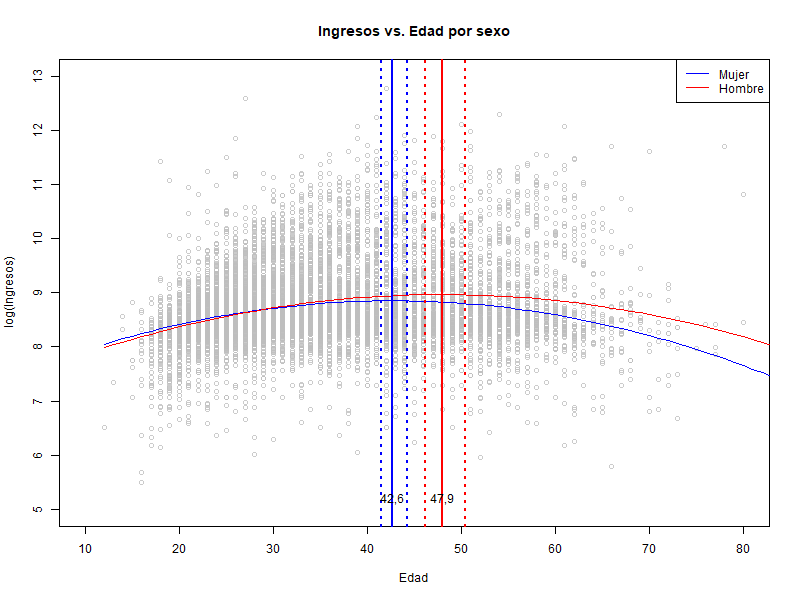
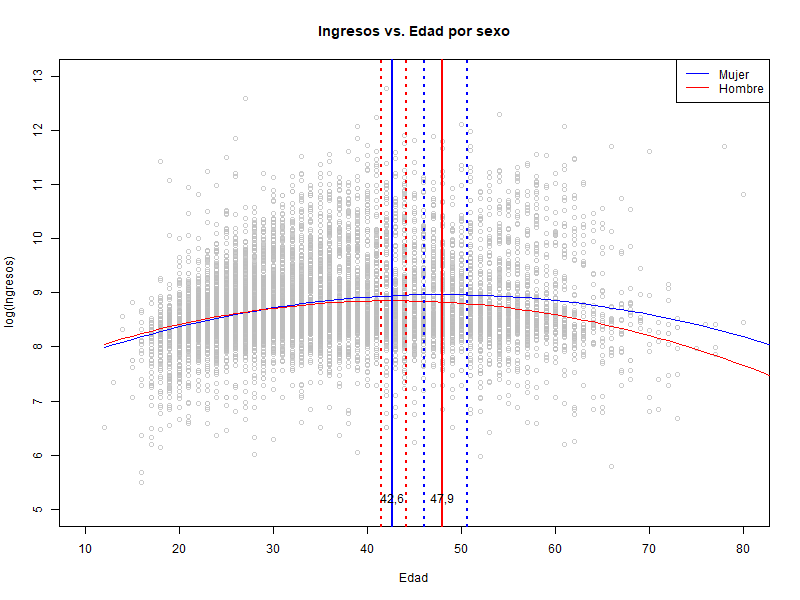
Actualización - Código brecha género

diff --git a/views/4reg3.tex b/views/4reg3.tex
@@ -1,6 +1,6 @@
 
 % Table created by stargazer v.5.2.3 by Marek Hlavac, Social Policy Institute. E-mail: marek.hlavac at gmail.com
-% Date and time: dom., mar. 03, 2024 - 11:00:58 a. m.
+% Date and time: dom., mar. 03, 2024 - 1:38:15 p. m.
 % Requires LaTeX packages: dcolumn 
 \begin{table}[!htbp] \centering 
   \caption{} 
@@ -13,13 +13,13 @@
 \\[-1.8ex] & \multicolumn{1}{c}{log\_wage\_res} & \multicolumn{1}{c}{ln\_wage} \\ 
 \\[-1.8ex] & \multicolumn{1}{c}{(1)} & \multicolumn{1}{c}{(2)}\\ 
 \hline \\[-1.8ex] 
- woman\_res & -0.165^{***} &  \\ 
+ woman\_res & 0.165^{***} &  \\ 
   & (0.012) &  \\ 
   & & \\ 
- sex &  & -0.044^{***} \\ 
+ sex &  & 0.044^{***} \\ 
   &  & (0.015) \\ 
   & & \\ 
- Constant & -0.000 & 8.739^{***} \\ 
+ Constant & 0.000 & 8.696^{***} \\ 
   & (0.006) & (0.010) \\ 
   & & \\ 
 \hline \\[-1.8ex] 

diff --git a/views/4reg1.tex b/views/4reg1.tex
@@ -1,6 +1,6 @@
 
 % Table created by stargazer v.5.2.3 by Marek Hlavac, Social Policy Institute. E-mail: marek.hlavac at gmail.com
-% Date and time: dom., mar. 03, 2024 - 10:56:51 a. m.
+% Date and time: dom., mar. 03, 2024 - 1:29:42 p. m.
 % Requires LaTeX packages: dcolumn 
 \begin{table}[!htbp] \centering 
   \caption{} 
@@ -12,10 +12,10 @@
 \cline{2-2} 
 \\[-1.8ex] & \multicolumn{1}{c}{ln\_wage} \\ 
 \hline \\[-1.8ex] 
- sex & -0.044^{***} \\ 
+ sex & 0.044^{***} \\ 
   & (0.015) \\ 
   & \\ 
- Constant & 8.739^{***} \\ 
+ Constant & 8.696^{***} \\ 
   & (0.010) \\ 
   & \\ 
 \hline \\[-1.8ex] 
